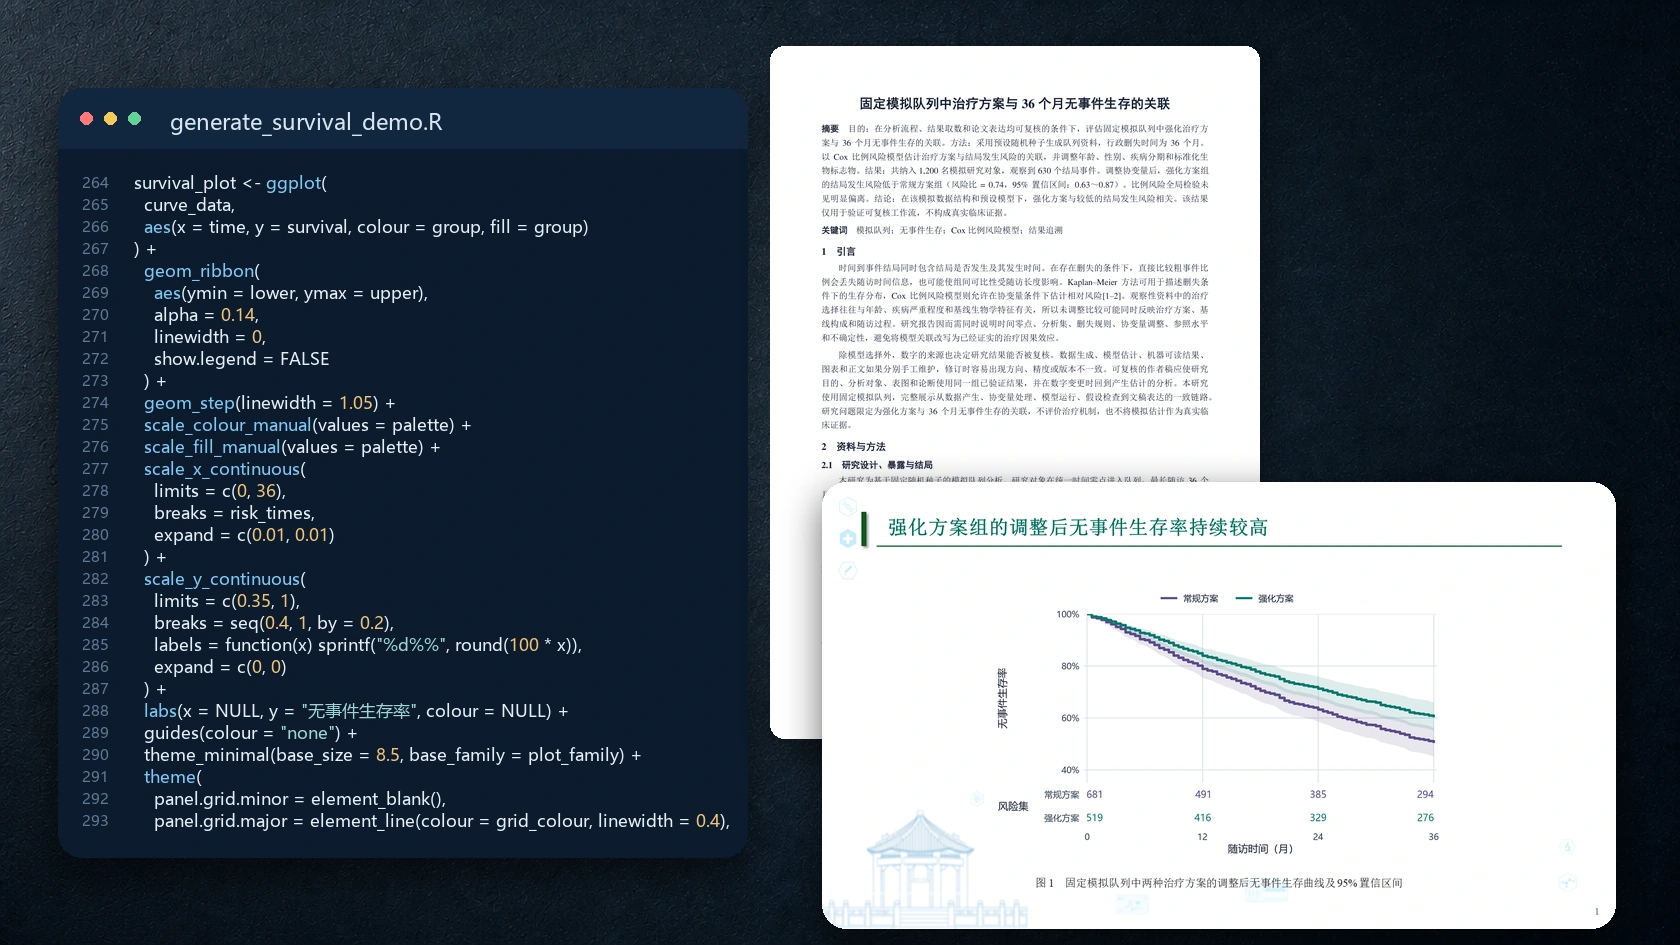
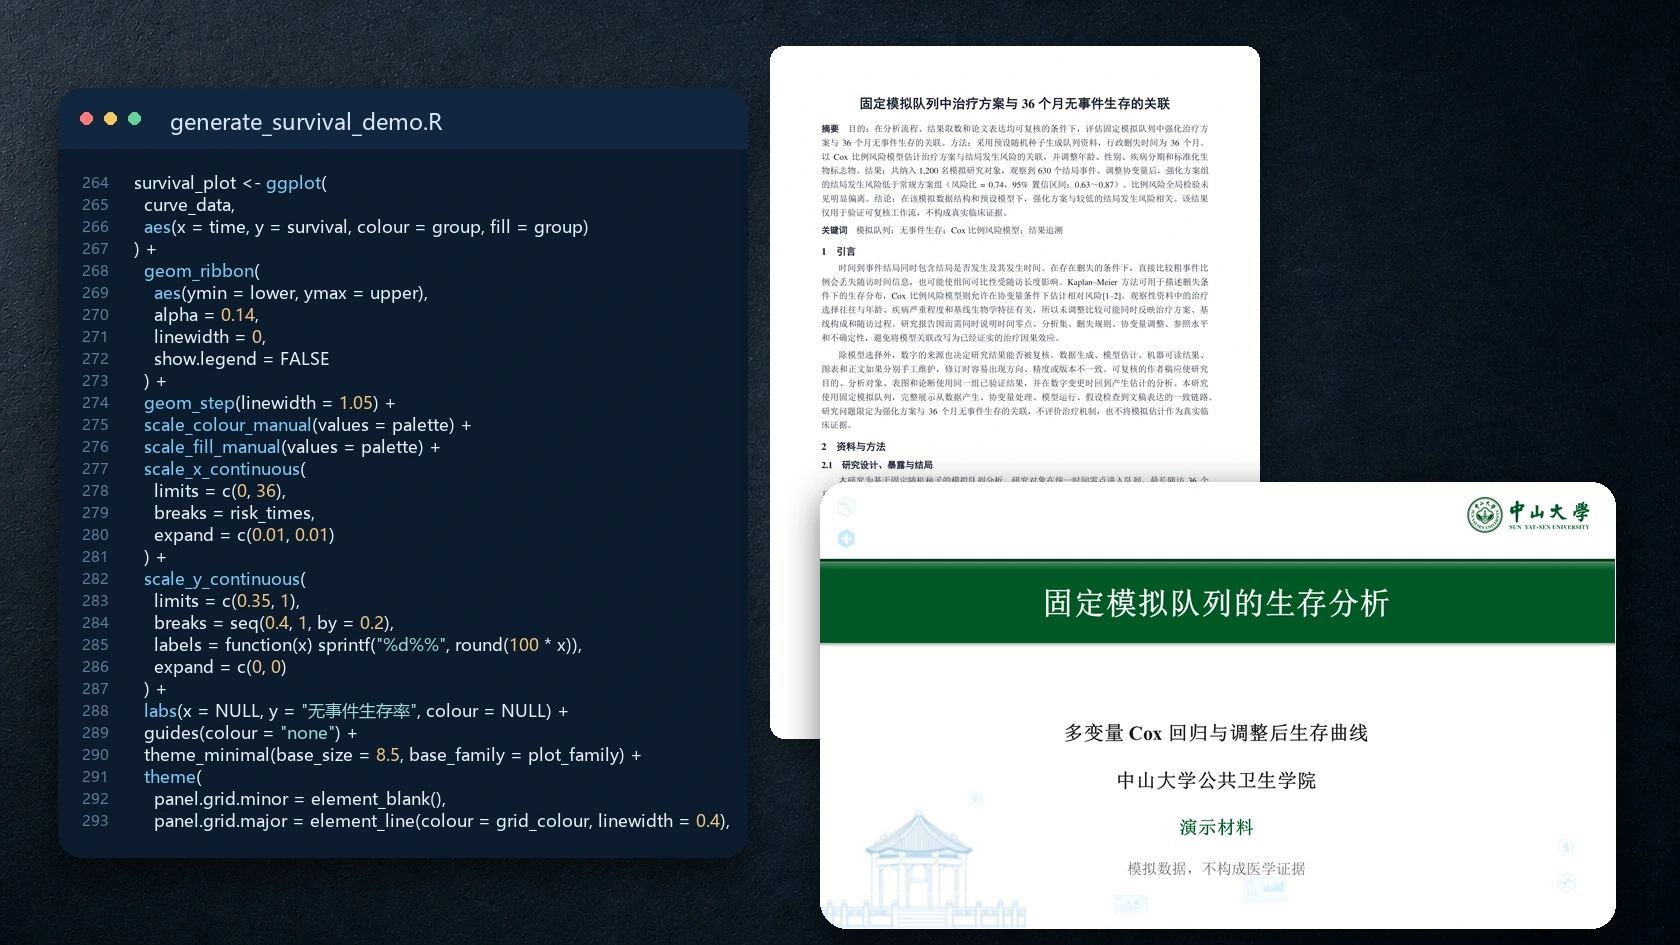
fix(readme): show official SYSU presentation showcase
Make the official SYSU template the first presentation showcase and use its rendered cover in the README hero. Keep the neutral academic-ppt examples separate for other users, and collapse each showcase with direct preview and download links.

Validation:
- python scripts/audit_skill_contracts.py
- python scripts/audit_workflow_contracts.py
- python -m unittest discover -s scripts/tests -v
- README local-target and details-balance checks
- git diff --check

Compatibility: no public CLAUDE.md routing change; the academic-ppt neutral route remains available independently.

diff --git a/scripts/tests/test_workflow_routing.py b/scripts/tests/test_workflow_routing.py
@@ -980,6 +980,13 @@ class WorkflowRoutingTests(unittest.TestCase):
         )
         self.assertIn("docs/showcase/composites/manuscripts.png", body)
         self.assertIn("docs/assets/research-workflow.webp", body)
+        self.assertIn("docs/showcase/composites/sysu-ppt.png", body)
+        self.assertIn("docs/demo/output/pptx/presentation-preview.pptx", body)
+        self.assertIn("docs/demo/output/pptx/presentation-cover.png", body)
+        self.assertIn("docs/showcase/composites/academic-ppt.png", body)
+        self.assertIn("<summary><strong>sysu-ppt · 中大官方模板学术汇报", body)
+        self.assertIn("<summary><strong>academic-ppt · 通用学术汇报", body)
+        self.assertGreaterEqual(body.count("<details>"), 7)
         self.assertNotIn("一次性生成全文", body)
         self.assertNotIn('审查只看代码即可通过', body)
         self.assertNotIn("forest-plot", body)

diff --git a/scripts/audit_workflow_contracts.py b/scripts/audit_workflow_contracts.py
@@ -1443,6 +1443,15 @@ def main() -> int:
             "docs/demo/generate_manuscript_preview.py",
             "docs/showcase/composites/research-visuals.png",
             "docs/assets/research-workflow.webp",
+            "docs/showcase/composites/sysu-ppt.png",
+            "docs/demo/output/pptx/presentation-preview.pptx",
+            "docs/demo/output/pptx/presentation-cover.png",
+            "docs/demo/output/pptx/presentation-preview.png",
+            "docs/demo/output/pptx/presentation-model-results.png",
+            "docs/demo/generate_presentation_preview.R",
+            "docs/showcase/composites/academic-ppt.png",
+            "docs/showcase/academic-ppt/survival-analysis-meeting.pptx",
+            "docs/showcase/academic-ppt/missing-data-proposal-defense.pptx",
             "python scripts/build_release.py",
             "$skill-creator",
             "实际问题：",

diff --git a/docs/demo/generate_showcase_composites.py b/docs/demo/generate_showcase_composites.py
@@ -39,6 +39,7 @@ def compose(image_paths, output_path, panel_size, gap=28, outer=28):
 def main():
     publication_dir = DEMO_DIR / "output" / "publication-figures"
     manuscript_dir = DEMO_DIR / "output" / "academic-publishing"
+    sysu_ppt_dir = DEMO_DIR / "output" / "pptx"
     research_dir = DOCS_DIR / "showcase" / "research-visuals"
     academic_ppt_dir = DOCS_DIR / "showcase" / "academic-ppt"
 
@@ -66,6 +67,14 @@ def main():
             ),
             OUTPUT_DIR / "manuscripts.png",
             (760, 1050),
+        ),
+        (
+            (
+                sysu_ppt_dir / "presentation-cover.png",
+                sysu_ppt_dir / "presentation-preview.png",
+            ),
+            OUTPUT_DIR / "sysu-ppt.png",
+            (1180, 664),
         ),
         (
             (

diff --git a/README.md b/README.md
@@ -16,7 +16,9 @@ Shared research workflow kit for Claude Code and Codex, built for epidemiology a
 
 </div>
 
-![真实 R 分析代码、Word 论文页和学术汇报页共同展示从统计分析到科研成品的工作结果](docs/assets/epiagentkit-hero.webp)
+[![真实 R 分析代码、Word 论文页和中大官方模板学术汇报页共同展示从统计分析到科研成品的工作结果](docs/assets/epiagentkit-hero.webp)](docs/demo/output/pptx/presentation-preview.pptx)
+
+[中大官方模板汇报 PPTX](docs/demo/output/pptx/presentation-preview.pptx) · [封面](docs/demo/output/pptx/presentation-cover.png) · [汇报结果页](docs/demo/output/pptx/presentation-preview.png)
 
 > EpiAgentKit 不是新的统计软件，也不是一组万能提示词。它是一套面向科研 Agent 的规则、技能、工具和确定性检查，让研究者能够在同一套约束下组织项目、运行分析、制作成果并完成审查。
 
@@ -62,32 +64,50 @@ Shared research workflow kit for Claude Code and Codex, built for epidemiology a
 
 ## 从一句话到真实产物
 
-以下示例展示从数据分析、科研绘图到论文和项目结构的实际成品。模拟结果只用于演示可复核工作流，不构成真实医学证据。
+以下 showcase 均引用仓库中的真实成果，可展开预览，也可下载对应的 PDF、Word、PPTX、图片、脚本和机器可读结果。各 skill 独立折叠，后续增加示例不会持续拉长 README。模拟结果只用于演示可复核工作流，不构成真实医学证据。
 
-### 统计分析与发表级统计图
+<details>
+<summary><strong>sysu-ppt · 中大官方模板学术汇报</strong></summary>
+
+<a href="docs/demo/output/pptx/presentation-preview.pptx"><img src="docs/showcase/composites/sysu-ppt.png" alt="中大公卫学院官方模板封面和调整后生存曲线结果页" width="100%"></a>
+
+[下载 PPTX](docs/demo/output/pptx/presentation-preview.pptx) · [查看封面](docs/demo/output/pptx/presentation-cover.png) · [查看生存曲线页](docs/demo/output/pptx/presentation-preview.png) · [查看模型结果页](docs/demo/output/pptx/presentation-model-results.png) · [查看生成脚本](docs/demo/generate_presentation_preview.R)
+
+这份组会稿由 `sysu_toolkit.R` 读取中大公卫学院模板生成，保留模板母版、页眉、品牌元素和页码；图表与表格来自固定模拟队列的实际 Cox 回归结果。
+
+</details>
+
+<details>
+<summary><strong>publication-figures · 统计分析与发表级统计图</strong></summary>
 
 ```text
 使用固定模拟队列完成多变量 Cox 回归。分别制作带 95% 置信区间和风险集的调整后生存曲线，
 以及呈现全部模型项、参照和效应区间的森林图；两张图分别核对时间到事件和多变量效应表达。
 ```
 
-<img src="docs/showcase/composites/publication-figures.png" alt="并排展示调整后无事件生存曲线和多变量 Cox 回归森林图" width="100%">
+<a href="docs/showcase/composites/publication-figures.png"><img src="docs/showcase/composites/publication-figures.png" alt="并排展示调整后无事件生存曲线和多变量 Cox 回归森林图" width="100%"></a>
 
 [生存曲线 PDF](docs/demo/output/publication-figures/adjusted-survival.pdf) · [森林图 PDF](docs/demo/output/publication-figures/cox-forest.pdf)
 
 `biostat-principles → r-biostats → publication-figures` 负责模型口径、估计方向、参照水平、最终物理尺寸和数值一致性。[查看分析与出图脚本](docs/demo/generate_survival_demo.R) · [查看固定模拟数据](docs/demo/survival-demo-data.csv) · [查看主要结果](docs/demo/output/publication-figures/survival-demo-results.csv) · [查看森林图结果](docs/demo/output/publication-figures/cox-forest-results.csv)
 
-### 科研非统计视觉
+</details>
 
-<img src="docs/showcase/composites/research-visuals.png" alt="并排展示跨尺度空间卷积注意力模块和跨领域科研执行流程" width="100%">
+<details>
+<summary><strong>research-visuals · 科研非统计视觉</strong></summary>
+
+<a href="docs/showcase/composites/research-visuals.png"><img src="docs/showcase/composites/research-visuals.png" alt="并排展示跨尺度空间卷积注意力模块和跨领域科研执行流程" width="100%"></a>
 
 [查看跨尺度注意力模块原图](docs/showcase/research-visuals/multiscale-attention.png) · [查看科研执行流程原图](docs/assets/research-workflow.webp)
 
 `research-visuals → imagegen` 先按图中实际对象分流。计算机、人工智能和机器学习图读取专门的计算机视觉规范，保留数据表示、模块、分支、汇合与输出；流行病学和公共卫生图继续使用研究对象、时间、变量与证据状态语法。统计数据图仍转 `publication-figures`，真实界面和论文页使用实际渲染，科研原始图像不生成式重绘。
 
-### 论文与 Word 实际渲染
+</details>
 
-<img src="docs/showcase/composites/manuscripts.png" alt="中文观察性分析完整作者稿和英文外部模型评价方法学完整作者稿的第一页" width="100%">
+<details>
+<summary><strong>academic-publishing · 论文与 Word 实际渲染</strong></summary>
+
+<a href="docs/showcase/composites/manuscripts.png"><img src="docs/showcase/composites/manuscripts.png" alt="中文观察性分析完整作者稿和英文外部模型评价方法学完整作者稿的第一页" width="100%"></a>
 
 | 中文观察性分析完整稿                                                                                                                           | 英文方法学完整稿                                                                                                                               |
 | ---------------------------------------------------------------------------------------------------------------------------------------------- | ---------------------------------------------------------------------------------------------------------------------------------------------- |
@@ -95,9 +115,12 @@ Shared research workflow kit for Claude Code and Codex, built for epidemiology a
 
 README 仅并排展示两份文档的第一页，Word 与 PDF 包含连续单栏排列的完整章节。中文稿使用固定模拟队列的实际模型结果、基线汇总、模型诊断和统计图；英文稿讨论外部模型评价中的校准斜率，不虚构实证发现、作者、机构、伦理号或基金信息。[查看 Word 生成与渲染脚本](docs/demo/generate_manuscript_preview.py)
 
-### 学术汇报与实际 PPTX
+</details>
 
-<img src="docs/showcase/composites/academic-ppt.png" alt="并排展示中性组会汇报的生存曲线结果页和开题答辩的失访机制研究问题页" width="100%">
+<details>
+<summary><strong>academic-ppt · 通用学术汇报与实际 PPTX</strong></summary>
+
+<a href="docs/showcase/composites/academic-ppt.png"><img src="docs/showcase/composites/academic-ppt.png" alt="并排展示中性组会汇报的生存曲线结果页和开题答辩的失访机制研究问题页" width="100%"></a>
 
 | 中性组会汇报 | 开题答辩汇报 |
 | --- | --- |
@@ -105,7 +128,10 @@ README 仅并排展示两份文档的第一页，Word 与 PDF 包含连续单栏
 
 组会稿使用固定模拟队列的实际 Cox 模型结果和生存曲线，封面后直接进入研究设计、结果、解释边界和下一步；开题稿使用另一套中性视觉体系，围绕失访机制、方法比较、评价指标、质量控制和研究计划展开，不预设实证结果。两份 PPTX 均由 Microsoft PowerPoint 实际导出全部页面并检查文字、箭头、图表比例、页面边界和投影可读性。[查看生成脚本](docs/demo/generate_academic_ppt_showcase.py)
 
-### 项目初始化
+</details>
+
+<details>
+<summary><strong>project-init · 项目初始化</strong></summary>
 
 | 分析项目                                                                           | 咨询项目                                                                                  |
 | ---------------------------------------------------------------------------------- | ----------------------------------------------------------------------------------------- |
@@ -114,7 +140,10 @@ README 仅并排展示两份文档的第一页，Word 与 PDF 包含连续单栏
 
 两套结构均由 [`init_project.R`](skills/project-init/scripts/init_project.R) 实际运行产生。原始数据目录只含保护占位文件；`results/results.yaml`、`SESSION_LOG.md`、`EXPERIMENTS.md` 和正式咨询包不会在没有实际结果时提前创建。
 
-### 文件命名与当前版
+</details>
+
+<details>
+<summary><strong>文件命名与当前版</strong></summary>
 
 | 文件类型                         | 命名规则                                            | 示例                                                             |
 | -------------------------------- | --------------------------------------------------- | ---------------------------------------------------------------- |
@@ -125,6 +154,8 @@ README 仅并排展示两份文档的第一页，Word 与 PDF 包含连续单栏
 | 被当前版替代且需要恢复的正式文件 | 整批移入 `09_backup/archive/<时间>_<主题>_<阶段>/` | 由归档清单记录原路径与哈希值                                  |
 
 README 和正式交付位置只引用一组当前版。预览 PNG、可编辑 Word、PDF 和机器可读结果可以并存，因为它们承担不同用途；同一内容的模糊版本后缀不会并排留在当前目录。
+
+</details>
 
 ## 工作流怎样随任务变化
 
